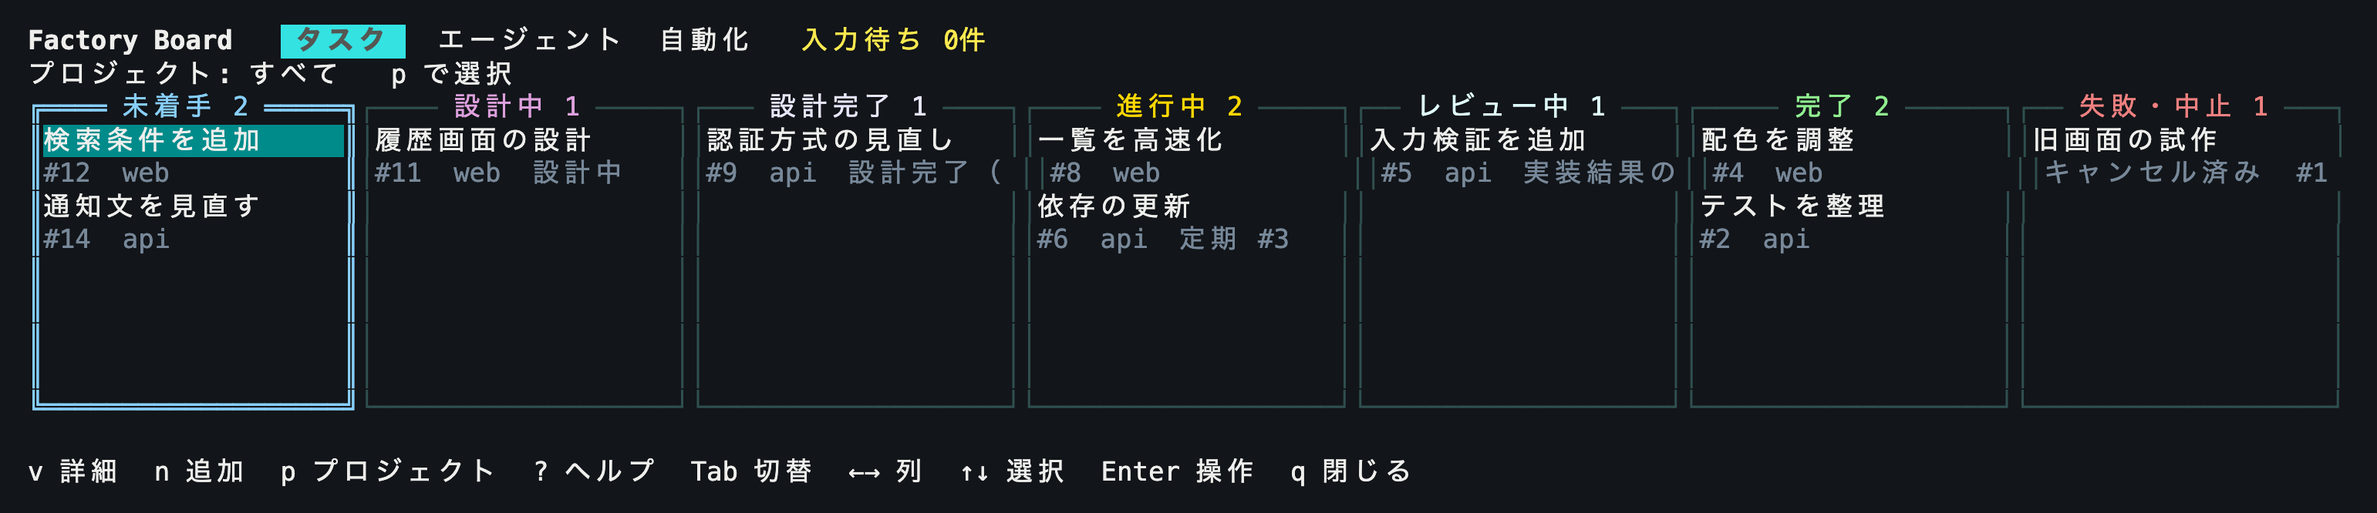
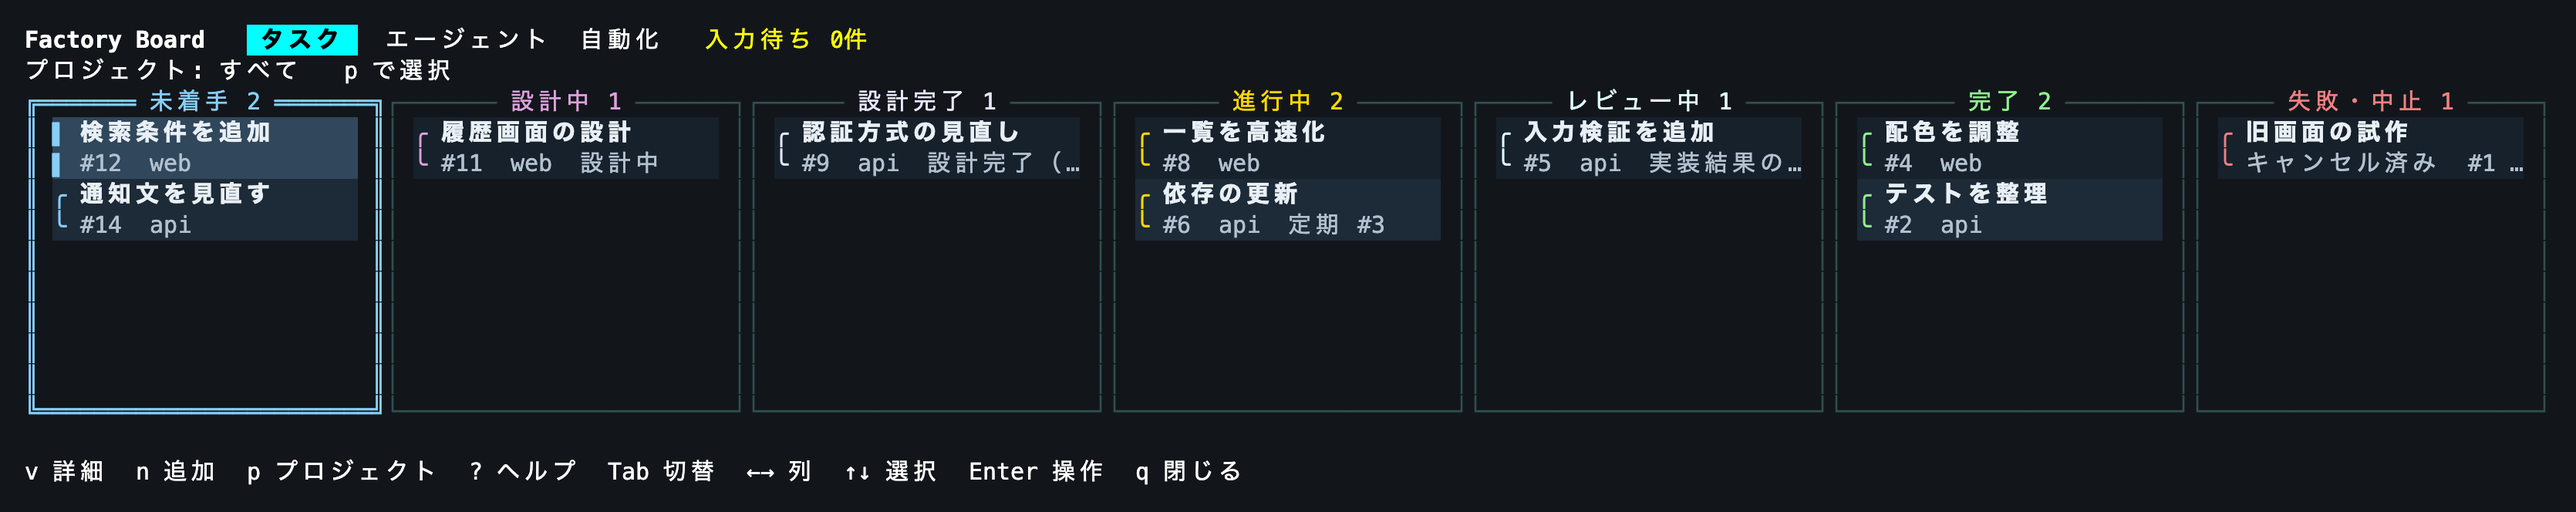
feat(tui): highlight task cards and clarify their layout

diff --git a/src/tui/taskboard/cards_test.go b/src/tui/taskboard/cards_test.go
@@ -1,0 +1,79 @@
+package taskboard
+
+import (
+	"fmt"
+	"strings"
+	"testing"
+
+	"github.com/Wataru-Toriumi/herdr-factory-board/src/domain/board"
+	"github.com/gdamore/tcell/v2"
+	"github.com/rivo/tview"
+)
+
+func TestLongCardTitleFitsLane(t *testing.T) {
+	for _, width := range []int{39, 40, 140} {
+		t.Run(fmt.Sprint(width), func(t *testing.T) {
+			screen := tcell.NewSimulationScreen("UTF-8")
+			if err := screen.Init(); err != nil {
+				t.Fatal(err)
+			}
+			defer screen.Fini()
+			screen.SetSize(width, 6)
+			v := NewView(nil, func(tview.Primitive) {})
+			v.Resize(width)
+			v.SetRect(0, 0, width, 6)
+			v.Render([]board.Card{{ID: 1, Status: board.Todo, Prompt: strings.Repeat("あ", width)}}, nil, "")
+			v.Draw(screen)
+			x, y, w, _ := v.List(Todo).GetInnerRect()
+			last, _, _, _ := screen.GetContent(x+w-1, y)
+			gutter, _, _, _ := screen.GetContent(x+w, y)
+			if last != '…' || gutter != ' ' {
+				t.Fatalf("カード末尾と余白の文字が違います: %q %q", last, gutter)
+			}
+		})
+	}
+}
+
+func TestCardHighlightFollowsSelectionAndScroll(t *testing.T) {
+	screen := tcell.NewSimulationScreen("UTF-8")
+	if err := screen.Init(); err != nil {
+		t.Fatal(err)
+	}
+	defer screen.Fini()
+	screen.SetSize(40, 6)
+	v := NewView(nil, func(tview.Primitive) {})
+	v.Resize(40)
+	v.SetRect(0, 0, 40, 6)
+	v.Render([]board.Card{
+		{ID: 1, Status: board.Todo, Prompt: "検索[red]"},
+		{ID: 2, Status: board.Todo, Prompt: "表示を調整"},
+		{ID: 3, Status: board.Todo, Prompt: "通知を追加"},
+	}, nil, "")
+	list := v.List(Todo)
+	list.Focus(nil)
+	v.Draw(screen)
+	x, y, _, _ := list.GetInnerRect()
+	check := func(y int, title rune, selected bool) {
+		t.Helper()
+		for line := 0; line < 2; line++ {
+			mark, _, _, _ := screen.GetContent(x-2, y+line)
+			r, _, style, _ := screen.GetContent(x, y+line)
+			_, bg, attr := style.Decompose()
+			if (mark == '▌') != selected || (bg == selectedSurface) != selected {
+				t.Fatalf("選択表示が違います: 行=%d, 印=%c, 背景=%v", line, mark, bg)
+			}
+			if (attr&tcell.AttrBold != 0) != (line == 0) || (line == 0 && r != title) || (line == 1 && r != '#') {
+				t.Fatalf("カードの文字または強調が違います: 行=%d, 文字=%c, 属性=%v", line, r, attr)
+			}
+		}
+	}
+	check(y, '検', true)
+	check(y+2, '表', false)
+	list.SetCurrentItem(2)
+	v.Draw(screen)
+	check(y, '表', false)
+	check(y+2, '通', true)
+	list.Blur()
+	v.Draw(screen)
+	check(y+2, '通', false)
+}

diff --git a/src/tui/taskboard/cards.go b/src/tui/taskboard/cards.go
@@ -1,0 +1,65 @@
+package taskboard
+
+import (
+	"github.com/Wataru-Toriumi/herdr-factory-board/src/tui/widgets"
+	"github.com/gdamore/tcell/v2"
+	"github.com/rivo/tview"
+)
+
+var (
+	cardSurfaces    = [...]tcell.Color{tcell.NewHexColor(0x17212c), tcell.NewHexColor(0x1d2a37)}
+	selectedSurface = tcell.NewHexColor(0x30475c)
+	cardTitle       = tcell.NewHexColor(0xe8eff5)
+	cardMetadata    = tcell.NewHexColor(0xb2c1cf)
+)
+
+func (v *View) Draw(screen tcell.Screen) {
+	v.Flex.Draw(screen)
+	for lane, list := range v.lists {
+		if !v.compact || lane == v.lane {
+			drawCards(screen, list, taskLanes[lane].color)
+		}
+	}
+}
+
+// 一覧が決定したスクロール位置と描画済みの文字を使い、表示中のカードだけを装飾する。
+func drawCards(screen tcell.Screen, list *widgets.RowList[Row], accent tcell.Color) {
+	x, y, width, height := list.GetInnerRect()
+	if width == 0 {
+		return
+	}
+	first, horizontal := list.GetOffset()
+	first = max(0, first)
+	for line := 0; line < height; line++ {
+		index := first + line/2
+		if index >= list.GetItemCount() {
+			break
+		}
+		surface := cardSurfaces[index%len(cardSurfaces)]
+		marker, ink := '╭', cardTitle
+		label, metadata := list.GetItemText(index)
+		if line%2 == 1 {
+			marker, ink = '╰', cardMetadata
+			label = metadata
+		}
+		if list.HasFocus() && index == list.GetCurrentItem() {
+			surface, marker = selectedSurface, '▌'
+		}
+		style := tcell.StyleDefault.Background(surface)
+		screen.SetContent(x-2, y+line, marker, nil, style.Foreground(accent))
+		screen.SetContent(x-1, y+line, ' ', nil, style)
+		textStyle := style.Foreground(ink).Bold(line%2 == 0)
+		clipped := tview.TaggedStringWidth(label) > horizontal+width
+		for col := x; col < x+width; {
+			char, combining, _, cells := screen.GetContent(col, y+line)
+			// 末尾が全角文字でも、省略記号までカードの幅に収める。
+			if clipped && col+cells >= x+width {
+				screen.SetContent(col, y+line, ' ', nil, textStyle)
+				screen.SetContent(x+width-1, y+line, '…', nil, textStyle)
+				break
+			}
+			screen.SetContent(col, y+line, char, combining, textStyle)
+			col += max(1, cells)
+		}
+	}
+}

diff --git a/src/tui/taskboard/view.go b/src/tui/taskboard/view.go
@@ -26,6 +26,7 @@ func NewView(execute func(string), focusLane func(tview.Primitive)) *View {
 	for i, lane := range taskLanes {
 		v.lists[i] = widgets.NewRowList[Row]()
 		v.lists[i].SetTitleColor(lane.color)
+		v.lists[i].SetBorderPadding(0, 0, 3, 1)
 	}
 	v.layoutColumns()
 	return v
